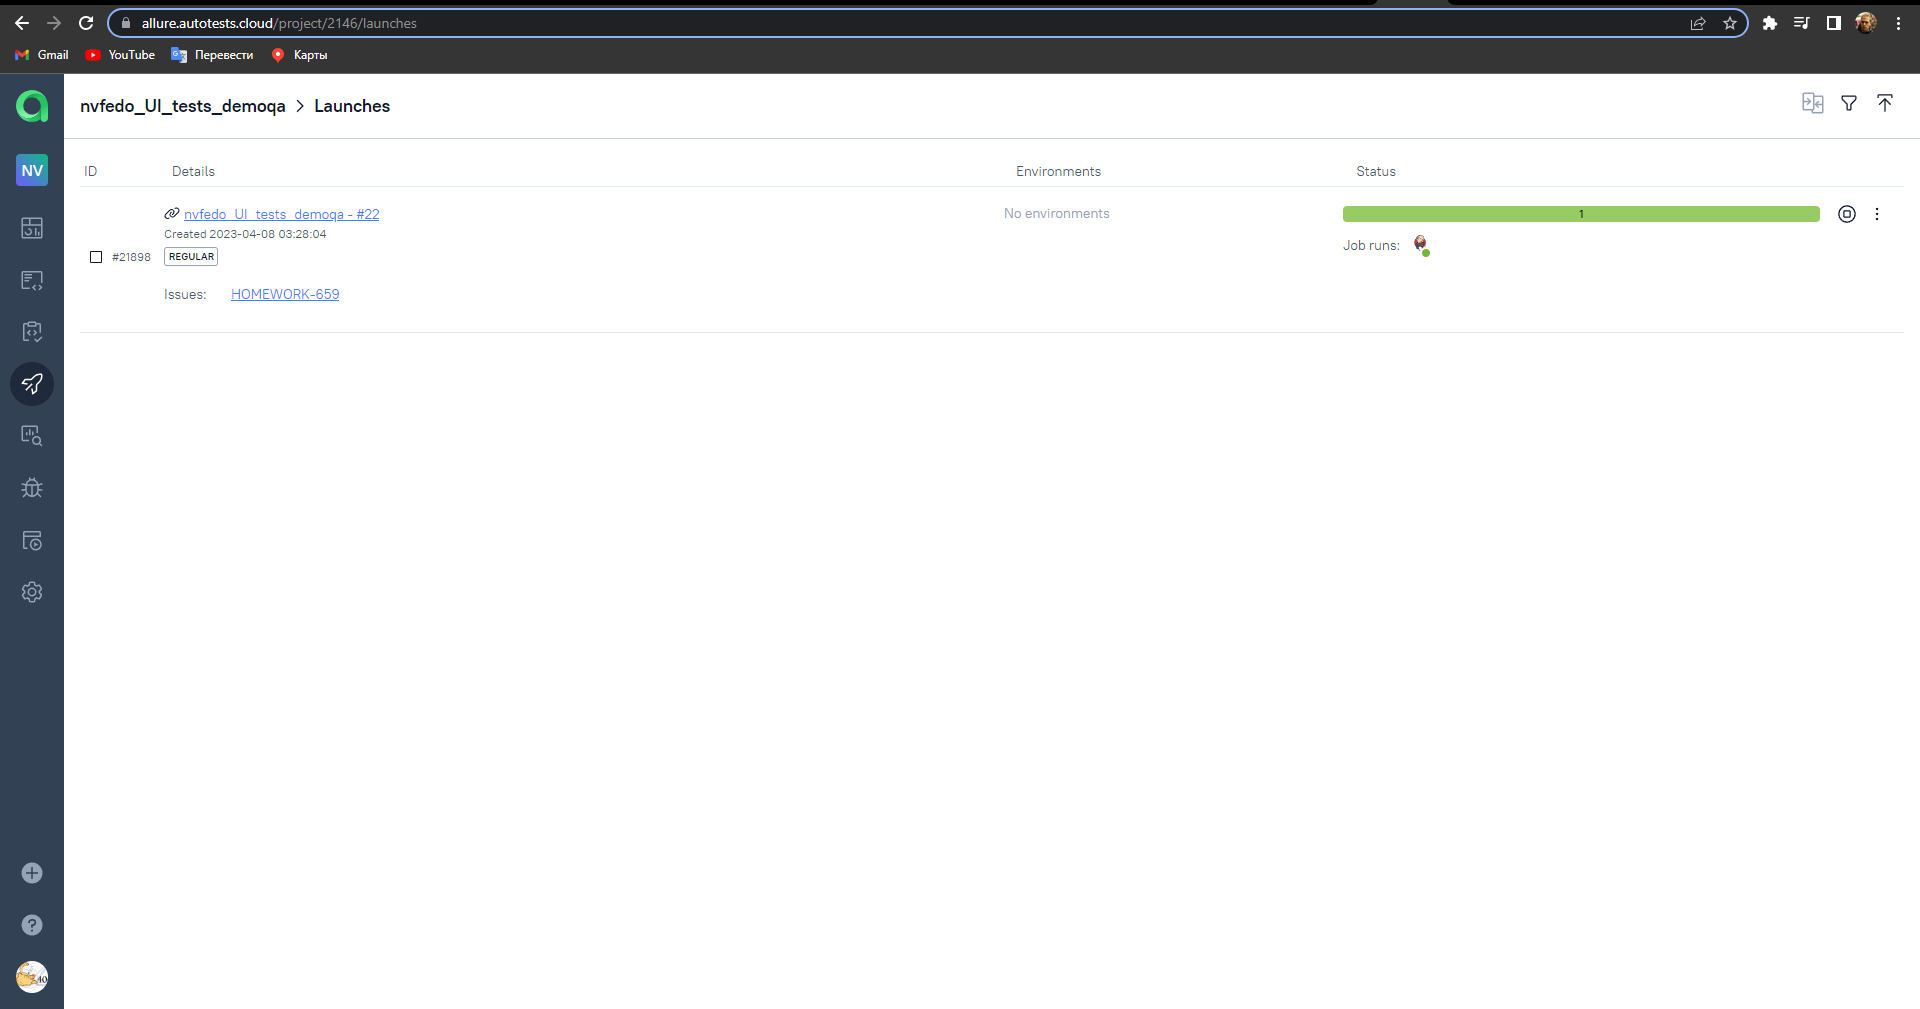
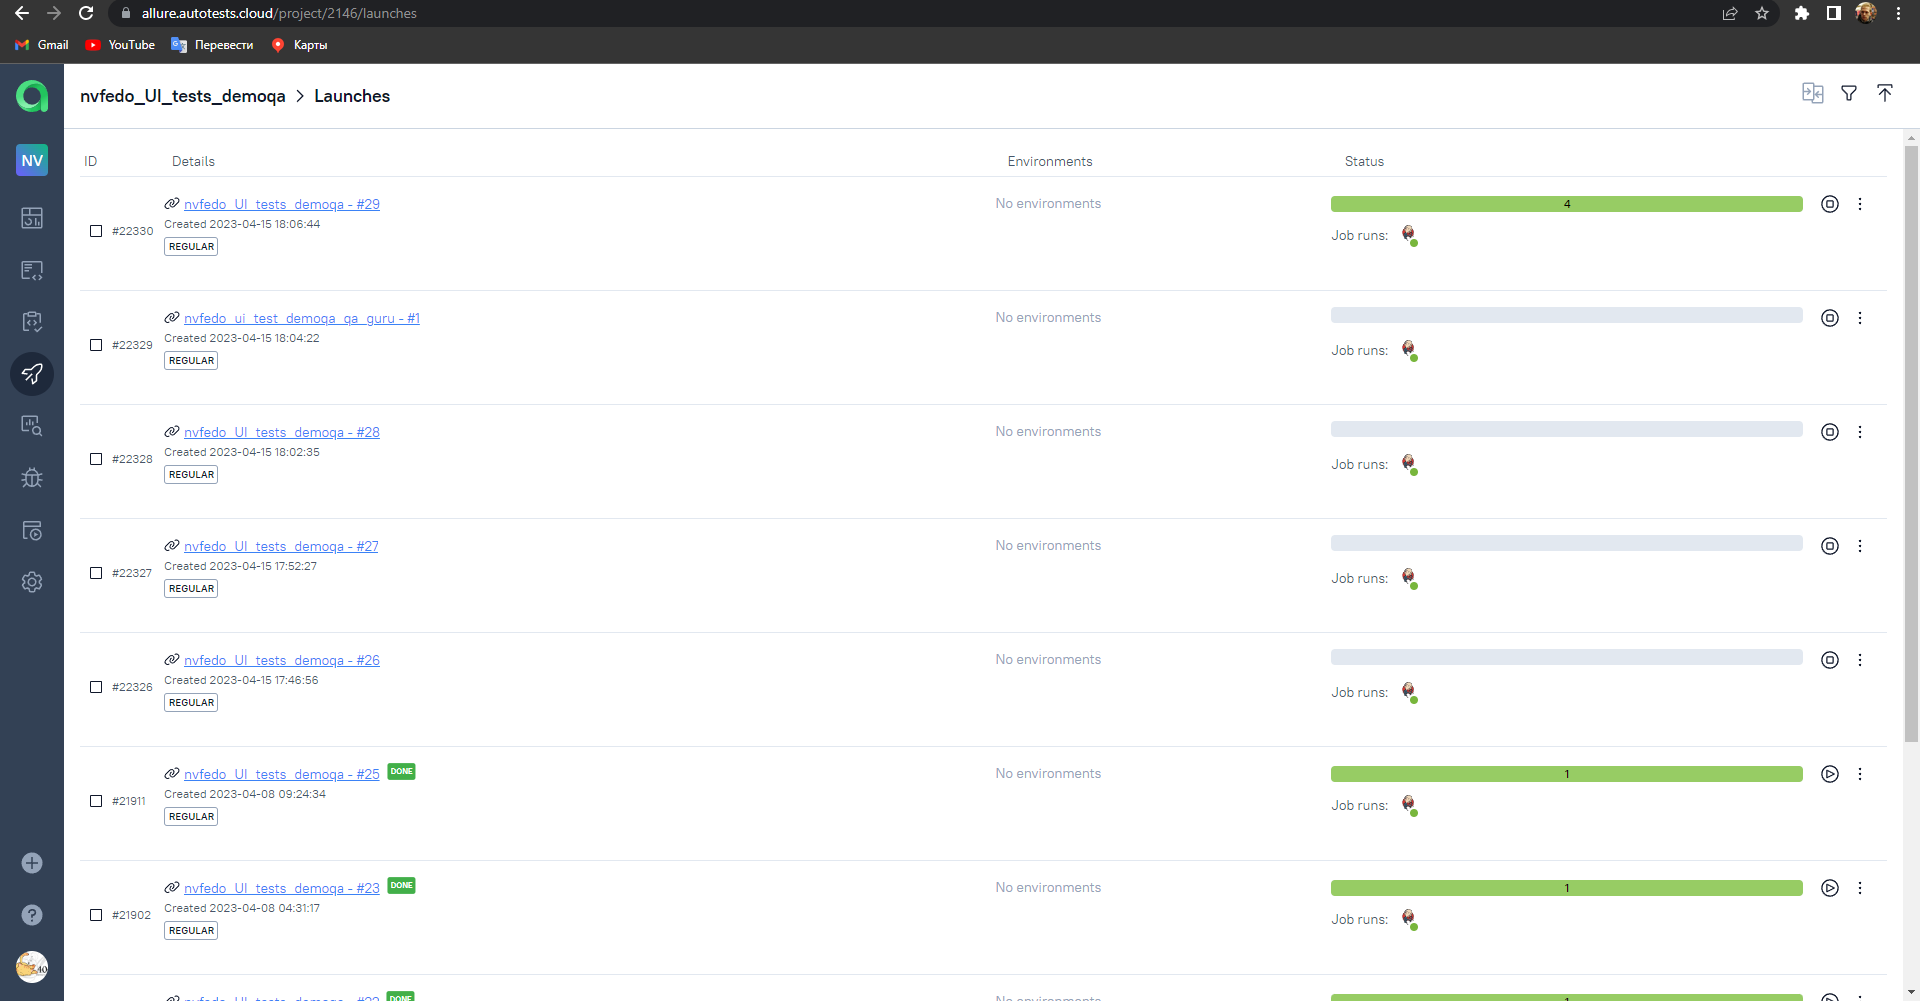
readme edit

diff --git a/README.md b/README.md
@@ -20,6 +20,7 @@
 - [x] Fills in the fields of the registration form. Elements such as checkbox, datepicker, dropdown, radiobutton and others are used
 - [x] Submit filled fields
 - [x] Validation filled fields
+- [x] Validation empty fields
 
 ### <img width="2%" title="Jenkins" src="attach/logo/jenkins.png"> Project in Jenkins
 
@@ -41,11 +42,17 @@
 Integration with Allure TestOps is also configured. After running a job from Jenkins, a launch is automatically created in Allure TestOps.
 For example, this launch was created at the same time as the launch of the job from Jenkins.
 ![Screen](attach/screenshots/launches.png)
-We can also create test cases and run jobs
+Test cases automatically created when you are finish the launch
 ![Screen](attach/screenshots/testcase.png)
-It is also possible to select the necessary ones from the test cases tab and run the launch with them (without visiting Jenkins)
-![Screen](attach/screenshots/job.png)
-![Screen](attach/screenshots/job_run.png)
+It is also possible to select the necessary ones from the test cases tab and run the launch with them (without visiting Jenkins):
+Ready and configured job
+![Screen](attach/screenshots/jobs.png)
+Select testcases and click "Run" throught bulk actions in Allure TestOps and in "Job" and make sure that the job from the previous step is selected as active
+![Screen](attach/screenshots/select_test_cases_for_launch.png)
+![Screen](attach/screenshots/launch_settings.png)
+![Screen](attach/screenshots/launch_settings_job.png)
+Launch successfully start. In the "Launches" tab new created launch appeared
+![Screen](attach/screenshots/launch_end_successfully.png)
 
 ### <img width="2%" title="Jira " src="attach/logo/jira.png"> Jira 
 Integration with bug tracking system Jira has been set up, allowing you to link launches and test cases to tasks.
